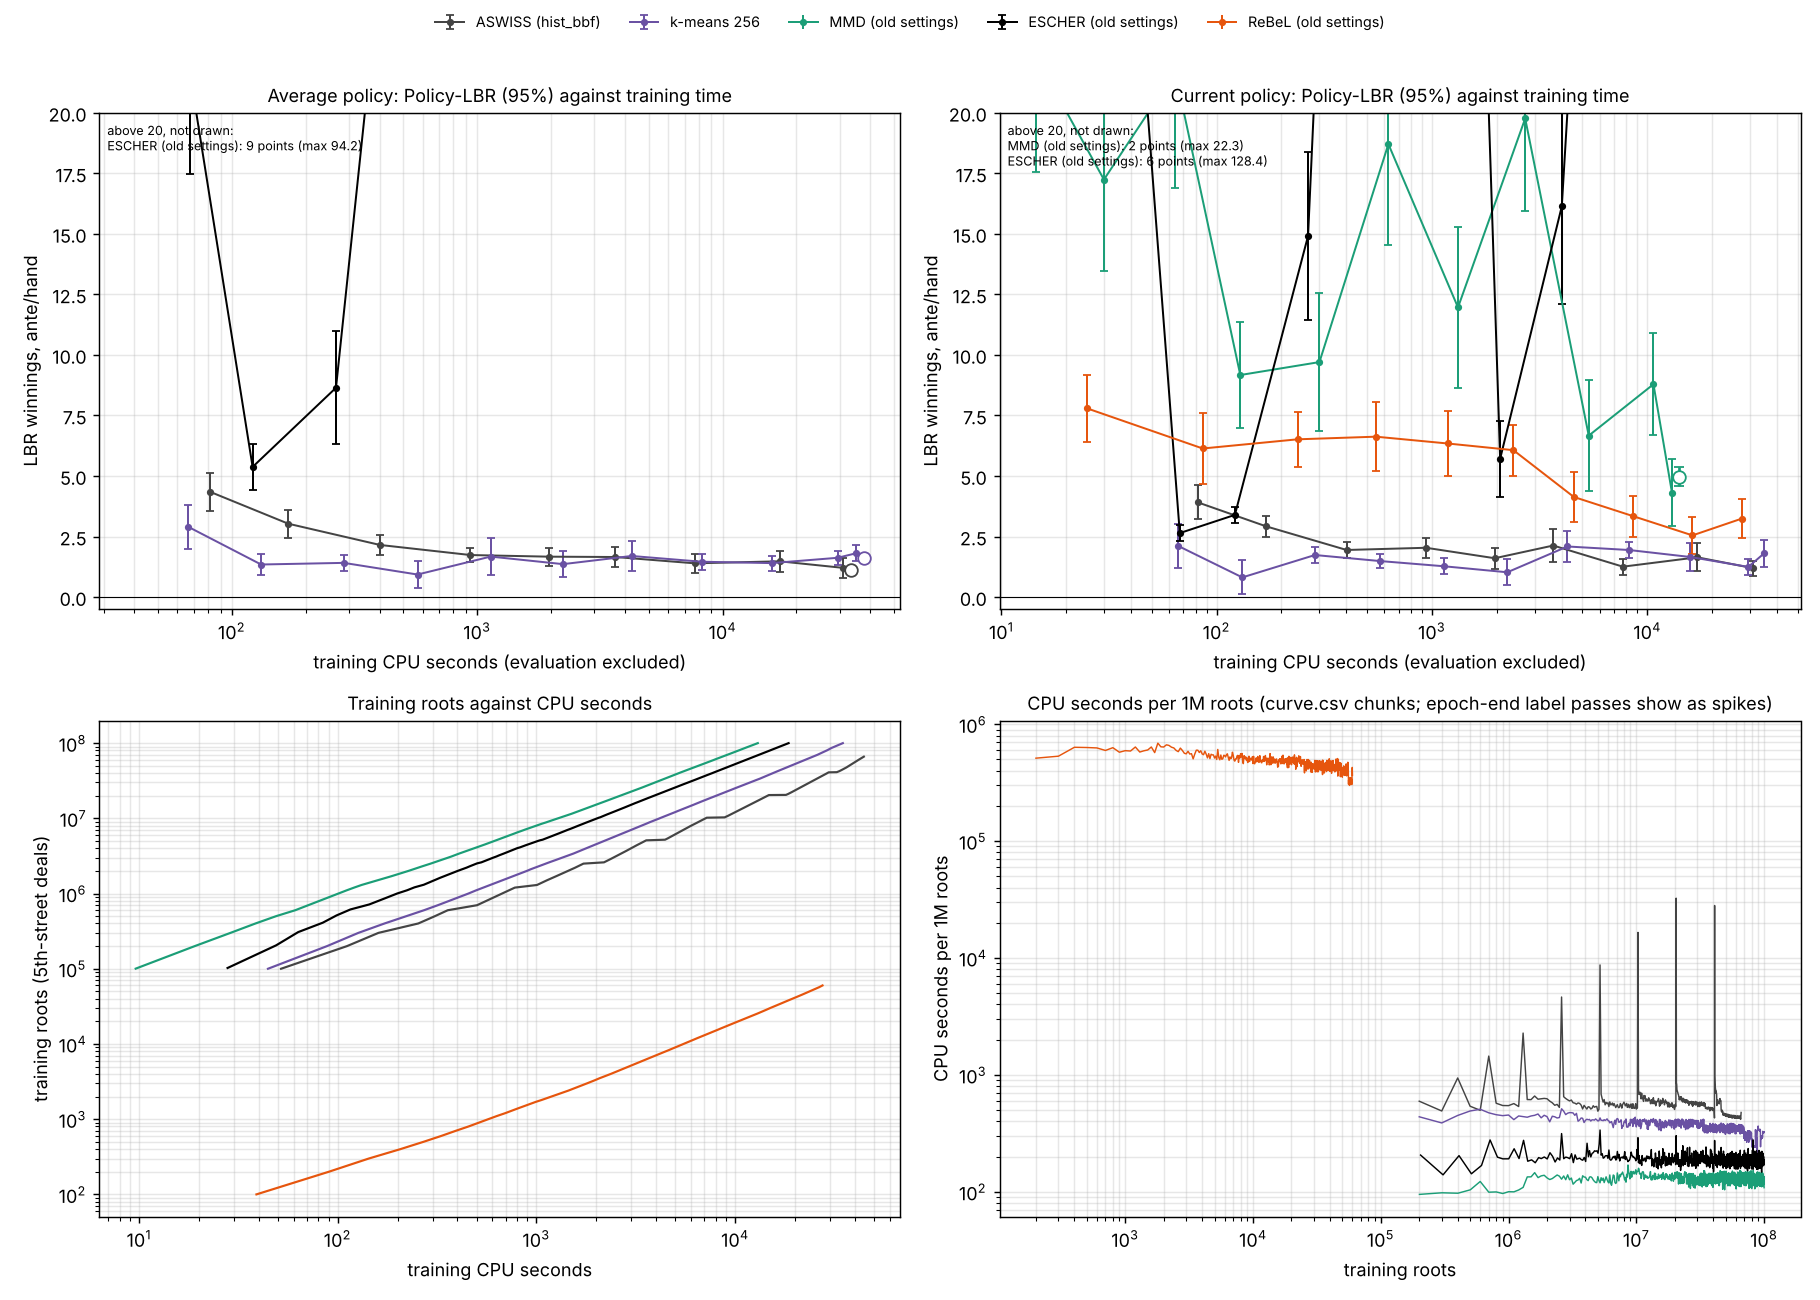
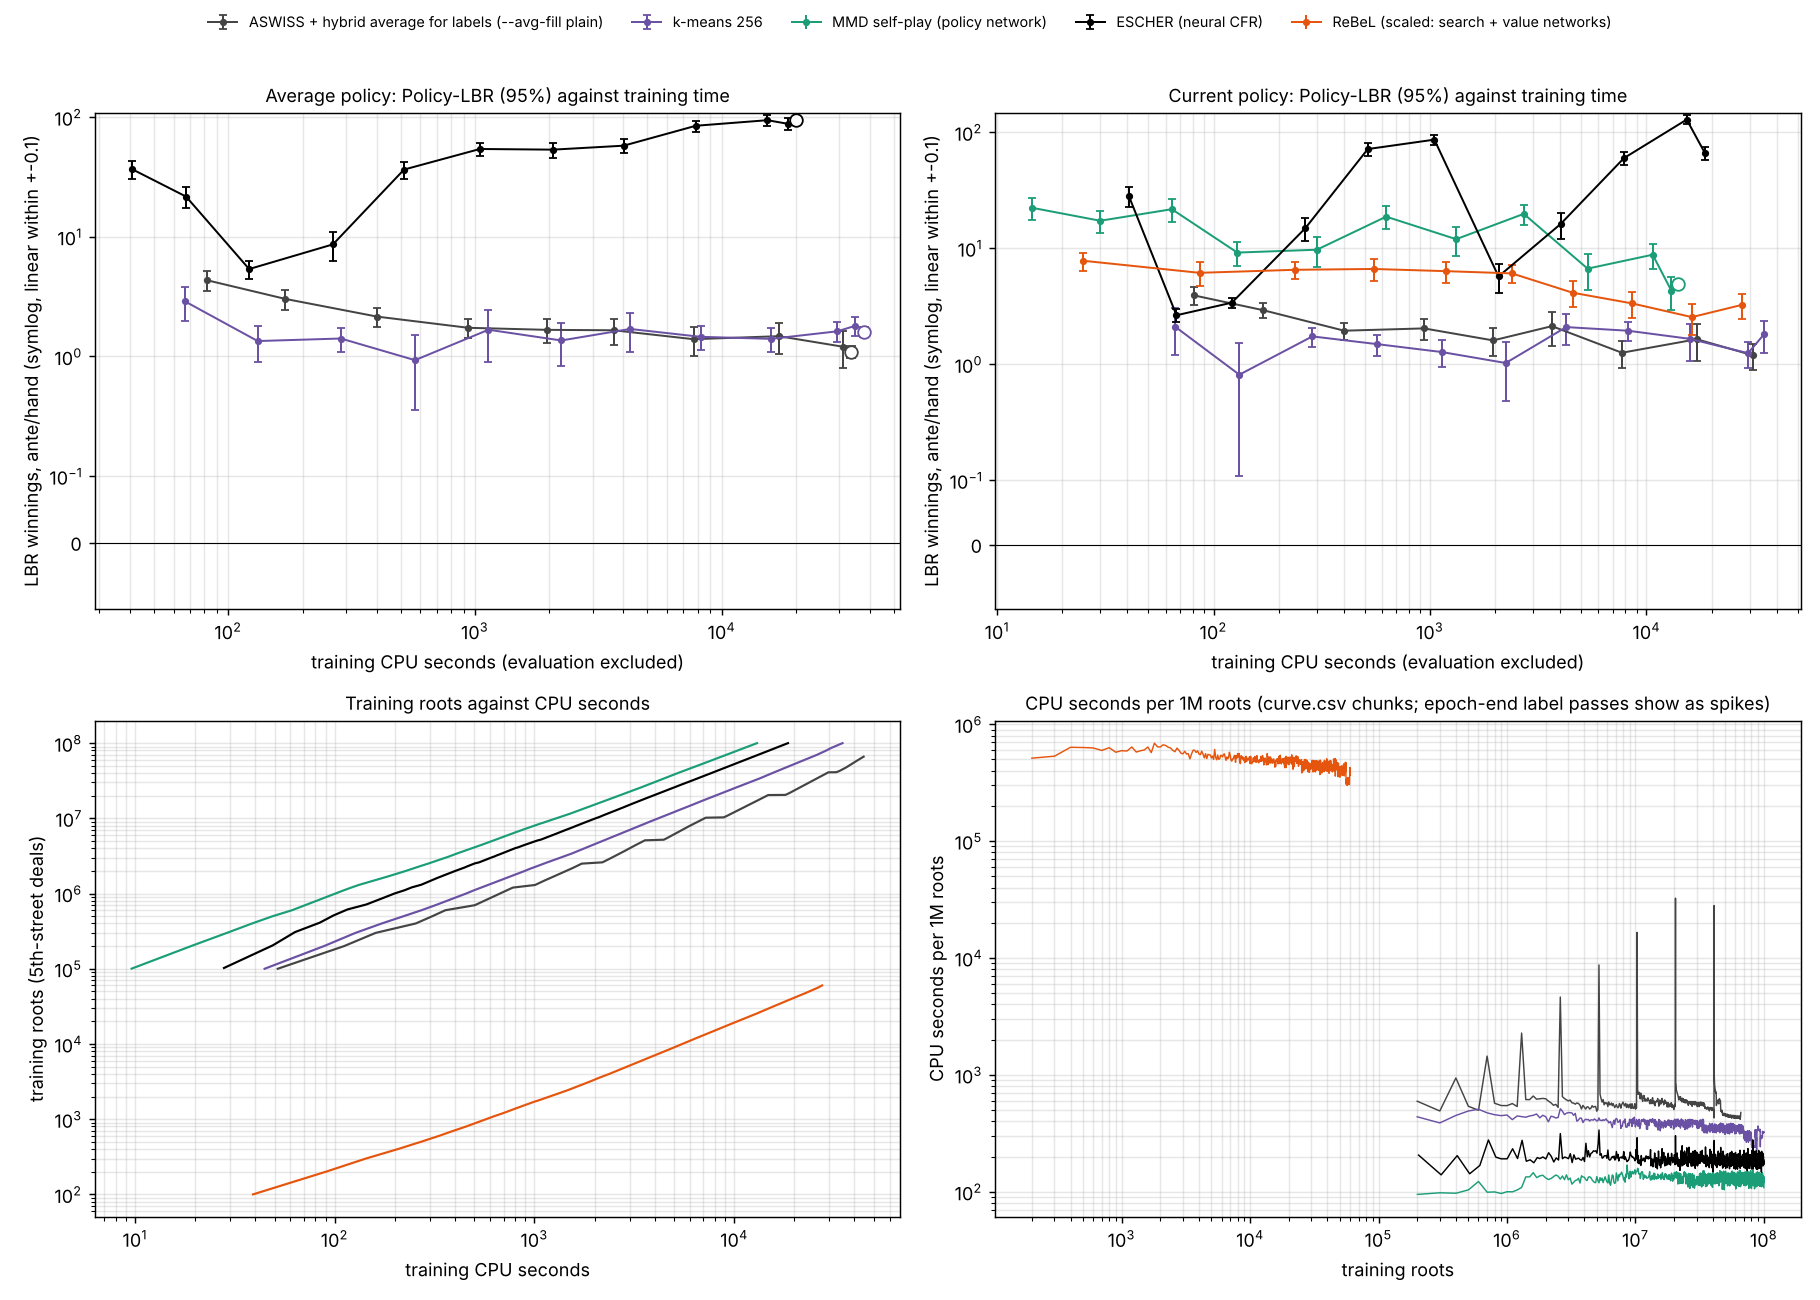
7-stud plots: LBR on symmetric-log axes
Every LBR panel (plot_stud.py curves and frontier, plot_stud_time.py,
plot_online_lbr.py) uses a symlog y axis, linear within +-0.1 ante, so the
0.5-100 ante range reads like a log axis while negative LBR stays visible
(AGENTS.md: do not hide negative LBR on log axes). Paired-difference panels
stay linear. Runs above 20 ante are no longer dropped from the curves. The
network and ReBeL arms get their own colors in plot_stud.py. runs_online
figures redrawn.

Claude-Session: https://claude.ai/code/session_01NttyhYFkEHhwUCcwRbsQVP

diff --git a/agents/adaptive_buckets/aswiss/stud7/plot_stud.py b/agents/adaptive_buckets/aswiss/stud7/plot_stud.py
@@ -32,12 +32,21 @@ STYLE = {"atom_k1024": (INK, "o", (0, (5, 3))), "aswiss_b_": ("#6250d6", "v", "-
          "history_bb_": ("#eb6834", "*", "-"), "history_bbl_": ("#e87ba4", "*", (0, (3, 2))),
          "aswiss": ("#eb6834", "s", "-"), "atom_kmatched": ("#2a78d6", "D", "-"),
          "atom_k341": ("#2a78d6", "D", "-"), "atom_k512": ("#1baf7a", "^", "-"), "atom_k256": (INK, "P", "-"),
-         "context": (MUTED, "X", (0, (1, 2)))}
+         "context": (MUTED, "X", (0, (1, 2))),
+         "history_bbf_": ("#eb6834", "*", "-"), "net_mmd": ("#1baf7a", "^", (0, (6, 2))),
+         "net_escher": ("#6250d6", "v", (0, (6, 2))), "rebel": ("#2a78d6", "D", (0, (2, 2)))}
 DEFAULT = ["atom_k1024_s1:k-means 1024 = atoms trained directly", "aswiss_k1024_z2_s1:ASWISS (context start, atom labels, z=2)",
            "atom_kmatched_s1:k-means, K matched to ASWISS buckets", "atom_k256_s1:k-means 256 (project standard) = baseline",
            "context_s1:context only, no card information"]
-OFF_SCALE_LBR = 20.0  # runs whose newest LBR exceeds this (the no-card context arm, ~64) are listed in the note, not drawn
-AXIS_FROM = 1e5       # LBR axes are scaled to points from this many roots on; earlier, larger points are clipped
+OFF_SCALE_LBR = float("inf")  # every run is drawn: the LBR axes are symmetric-log (below), so large values fit
+LBR_LT = 0.1  # LBR axes: symmetric log, linear within +-LBR_LT ante (negative LBR stays visible, not hidden by a log axis)
+
+
+def lbr_axis(ax):
+    ax.set_yscale("symlog", linthresh=LBR_LT, linscale=0.5)
+    ax.set_ylabel(ax.get_ylabel() + f" (symlog, linear within +-{LBR_LT:g})")
+    lo = ax.dataLim.y0  # keep only a sliver below 0 unless some value (or interval) is negative
+    ax.set_ylim(bottom=1.5 * lo if lo < -LBR_LT else -LBR_LT)
 
 
 def style(run):
@@ -145,9 +154,7 @@ for col, policy in enumerate(("average", "current")):
                 axes[2, col].errorbar([r["roots"] * 1.12], [m], yerr=[e], color=colour, **HOLLOW)
     styled(axes[0, col], f"{policy.capitalize()} policy: Policy-LBR (95% interval)", "LBR winnings, ante/hand", False)
     axes[0, col].axhline(0, color=MUTED, lw=1)
-    shown = [r["lbr_ante"] + 1.96 * r["lbr_se"] for run, *_ in SERIES if run not in off_scale
-             for (f, p), r in data[run].items() if p == policy and r["roots"] >= AXIS_FROM]
-    if shown: axes[0, col].set_ylim(top=1.1 * max(shown))
+    lbr_axis(axes[0, col])
     styled(axes[1, col], f"{policy.capitalize()} policy: sampled BR-gap proxy (fixed deals)", "proxy, ante/hand (log)", True)
     styled(axes[2, col], f"{policy.capitalize()} policy: LBR minus {BASELINE} (paired deals, 95%)", "LBR difference, ante/hand", False)
     axes[2, col].axhline(0, color=INK, lw=1.2)
@@ -213,7 +220,8 @@ notes = [f"{run}: newest snapshot LBR > {OFF_SCALE_LBR:g}, not drawn" for run in
        "street's first decision or at every decision), buckets start as one per (street, legal mask); no betting summary."]
       if any(r.startswith("history_") for r, *_ in SERIES) else []),
     "Intervals are deal-sampling intervals only; training-seed variation is not included. "
-    f"LBR axes are scaled to points from {AXIS_FROM:.0e} roots on; earlier points may be clipped."]
+    f"LBR axes are symmetric-log (linear within +-{LBR_LT:g} ante) so that negative values stay visible; "
+    "difference panels are linear."]
 fig.text(0.01, 0.005, "\n".join(textwrap.fill(n, 200, subsequent_indent="  ") for n in notes), fontsize=8, color=INK, va="bottom", ha="left", family="monospace")
 handles, labels = axes[0, 0].get_legend_handles_labels()
 handles.append(plt.Line2D([], [], color=MUTED, **{k: v for k, v in HOLLOW.items() if k != "capsize"})); labels.append("re-evaluated with more pairs")
@@ -242,6 +250,7 @@ for ax, key, title, logy in ((axes[0], "lbr_ante", "Newest average policy: Polic
     ax.set_title(title, color=INK, loc="left"); ax.set_xlabel("buckets in the evaluated partition" + (" (betting + 4th-street)" if learned_h4 else "")); ax.set_ylabel("ante/hand")
     for side in ("top", "right"): ax.spines[side].set_visible(False)
 axes[0].axhline(0, color=MUTED, lw=1)
+lbr_axis(axes[0])
 axes[0].legend(frameon=False, fontsize=8, loc="best")
 guard_log(axes)
 fig.tight_layout(); fig.savefig(f"{OUT}_frontier.png", dpi=140)

diff --git a/agents/adaptive_buckets/aswiss/stud7/plot_stud_time.py b/agents/adaptive_buckets/aswiss/stud7/plot_stud_time.py
@@ -9,7 +9,7 @@ memory bandwidth, so seconds compare only within a group or under the same load.
 Panels: average and current policy LBR (95% interval; hollow circles = newest snapshot with more pairs) against
 seconds; training roots against seconds; seconds per 1M roots against roots (from curve.csv, label passes included
 in the 100k-root chunk where an epoch ends). LBR is an approximate exploitability lower bound and can be negative,
-so it stays on a linear axis.
+so its axis is symmetric-log (linear within +-0.1 ante): log-like for the usual 0.5-100 range, negatives still drawn.
 --clock cpu: x = training CPU seconds instead of training wall-clock seconds (the equal-CPU-time comparison). Network
 and ReBeL runs record it (train_cpu_seconds in curve.csv / snapshots.csv). For tabular runs it is reconstructed from
 curve.csv's process CPU time (summed over resumptions) minus the online LBR's time (online_lbr.csv online_seconds,
@@ -40,8 +40,7 @@ a = ap.parse_args()
 from train_clock import cpu_clock  # noqa: E402  (training CPU seconds; see train_clock.py)
 colors = ["#444444", "#6a51a3", "#1b9e77", "#000000", "#e6550d", "#3182bd", "#777777", "#d62728", "#17becf"]
 fig, ax = plt.subplots(2, 2, figsize=(14, 10))
-YCAP = 20.0  # LBR panels grow up to this (ante/hand); points above are listed in the panel
-ymax, above = [0.0, 0.0], [[], []]
+LBR_LT = 0.1  # LBR panels: symmetric log, linear within +-LBR_LT ante (negative values stay visible); nothing is cut off
 for i, spec in enumerate(a.runs):
     name, rest = spec.split(":", 1)
     label, _, group = rest.partition("|")
@@ -74,9 +73,6 @@ for i, spec in enumerate(a.runs):
         rows = sorted((r for r in rows if r["policy"] == policy and r["file"] in secs), key=lambda r: secs[r["file"]])
         x = [secs[r["file"]] for r in rows]; y = [r["lbr_ante"] for r in rows]; e = [1.96 * r["lbr_se"] for r in rows]
         ax[0][j].errorbar(x, y, yerr=e, color=color, ls=ls, marker="o", ms=3, lw=1.1, capsize=2, label=lab if j == 0 else None)
-        ymax[j] = max([ymax[j]] + y)
-        over = [v for v in y if v > YCAP]
-        if over: above[j].append(f"{label}: {len(over)} point{'s' if len(over) > 1 else ''} (max {max(over):.1f})")
         fpath = os.path.join(d, "eval_final.jsonl")
         if os.path.exists(fpath):
             for r in map(json.loads, open(fpath)):
@@ -92,12 +88,12 @@ tag = f" (stalls > {a.drop_stalls:g}x median removed)" if a.drop_stalls > 0 else
 CLOCK = "CPU" if a.clock == "cpu" else "wall-clock"
 for j, policy in enumerate(("Average", "Current")):
     ax[0][j].set_xscale("log"); ax[0][j].axhline(0, color="black", lw=0.6)
-    if above[j]:  # points above the axis are listed, not dropped silently
-        ax[0][j].text(0.01, 0.98, f"above {YCAP:g}, not drawn:\n" + "\n".join(above[j]), transform=ax[0][j].transAxes,
-                      fontsize=7, va="top")
     ax[0][j].set_title(f"{policy} policy: Policy-LBR (95%) against training time{tag}", fontsize=10)
-    ax[0][j].set_xlabel(f"training {CLOCK} seconds (evaluation excluded)"); ax[0][j].set_ylabel("LBR winnings, ante/hand")
-    ax[0][j].set_ylim(bottom=-0.5, top=min(YCAP, max(4.0, 1.1 * ymax[j]))); ax[0][j].grid(True, which="both", alpha=0.3)
+    ax[0][j].set_xlabel(f"training {CLOCK} seconds (evaluation excluded)")
+    ax[0][j].set_ylabel(f"LBR winnings, ante/hand (symlog, linear within +-{LBR_LT:g})")
+    ax[0][j].set_yscale("symlog", linthresh=LBR_LT, linscale=0.5); ax[0][j].grid(True, which="both", alpha=0.3)
+    lo = ax[0][j].dataLim.y0  # only a sliver below 0 unless a value is negative
+    ax[0][j].set_ylim(bottom=1.5 * lo if lo < -LBR_LT else -LBR_LT)
 ax[1][0].set_xscale("log"); ax[1][0].set_yscale("log"); ax[1][0].set_title(f"Training roots against {CLOCK} seconds" + tag, fontsize=10)
 ax[1][0].set_xlabel(f"training {CLOCK} seconds"); ax[1][0].set_ylabel("training roots (5th-street deals)"); ax[1][0].grid(True, which="both", alpha=0.3)
 ax[1][1].set_xscale("log"); ax[1][1].set_yscale("log"); ax[1][1].set_title(f"{CLOCK} seconds per 1M roots (curve.csv chunks; epoch-end label passes show as spikes)", fontsize=10)

diff --git a/agents/adaptive_buckets/aswiss/stud7/plot_online_lbr.py b/agents/adaptive_buckets/aswiss/stud7/plot_online_lbr.py
@@ -133,7 +133,10 @@ titles = (f"Online LBR, mean of the last {a.window} deals ({a.level:.0%} interva
           f"... vs training {'CPU' if a.clock == 'cpu' else 'wall-clock'} seconds (online LBR time excluded)")
 for j in range(2):
     ax[j].set_xscale("log"); ax[j].axhline(0, color="black", lw=0.6); ax[j].grid(True, which="both", alpha=0.3)
-    ax[j].set_title(titles[j], fontsize=10); ax[j].set_ylabel("LBR winnings, ante/hand (pair mean)")
+    ax[j].set_title(titles[j], fontsize=10); ax[j].set_ylabel("LBR winnings, ante/hand (pair mean; symlog, linear within +-0.1)")
+    ax[j].set_yscale("symlog", linthresh=0.1, linscale=0.5)  # log-like, and negative windows stay visible
+    lo = ax[j].dataLim.y0
+    ax[j].set_ylim(bottom=1.5 * lo if lo < -0.1 else -0.1)
 ax[0].set_xlabel("training roots (each arm's own unit: hands for ReBeL)"); ax[1].set_xlabel(f"training {'CPU' if a.clock == 'cpu' else 'wall-clock'} seconds" + (f" (wall for: {', '.join(sorted(wall_only))})" if wall_only else ""))
 if a.baseline:
     ax[2].set_xscale("log"); ax[2].axhline(0, color="black", lw=0.6); ax[2].grid(True, which="both", alpha=0.3)

diff --git a/agents/adaptive_buckets/aswiss/stud7/README_KO.md b/agents/adaptive_buckets/aswiss/stud7/README_KO.md
@@ -980,7 +980,7 @@ ASWISS·k-means는 1억 roots로 돌리고, 신경망 비교군(MMD, ESCHER, ReB
 - **k-means는 더 학습하면 나빠졌다:** 64파티클 LBR이 40.95M 1.40 → 81.91M 1.62 → 100M 1.81, 256파티클로 1.61 → 1.73 → 2.02. 고정 추상화의 평균 전략이 추상 게임의 균형으로 가면서 원 게임에서는 더 공략당하는 모습이다(seed 하나라 확정은 아니다). 최종 차이의 일부는 이 때문이다.
 - **ESCHER(이전 설정)는 발산했다:** 평균 정책 LBR이 0.63M에 5.38로 가장 낮았다가 100M에 93.65가 됐다. 가치 손실도 223(81.92M) → 1,100(100M)으로 커졌다. 이어서 학습한 가치망(warm start)과 탐색 0.25가 의심된다. 고친 설정(반복마다 재초기화, 탐색 0.01, 원문 학습량)에서 같은 일이 생기는지는 `runs_fair`의 온라인 LBR로 본다.
 - **메모리:** ASWISS의 최대 working set이 epoch 끝마다 커져 40.95M 끝에서 6.8 GB였다(private commit은 약 1.2 GB). 라벨 판정 순회의 일시적 사용이다. 81.91M epoch 끝에서는 더 클 수 있으니 다섯 비교군을 함께 돌릴 때 RAM을 확인한다.
-- **그림:**
+- **그림:** LBR 축은 대칭 로그(symlog, ±0.1 ante 안은 선형)다(2026-11-07부터 모든 LBR 그림). 0.5–100 ante를 로그처럼 보이면서 음수 LBR도 그린다. 같은 deal 차이 패널은 선형이다. 축을 넘는 값을 빼던 규칙(LBR > 20이면 그리지 않음)은 없앴다.
   - `results_online_s1_cputime.png`: LBR 대 학습 CPU 초
   - `results_online_s1_curves.png`, `results_online_s1_presplit256_curves.png`: roots 축(64파티클, 분할 직전 256파티클)
   - `results_online_s1_online_cpu_w2000.png`: 온라인 LBR 2,000행 이동평균
